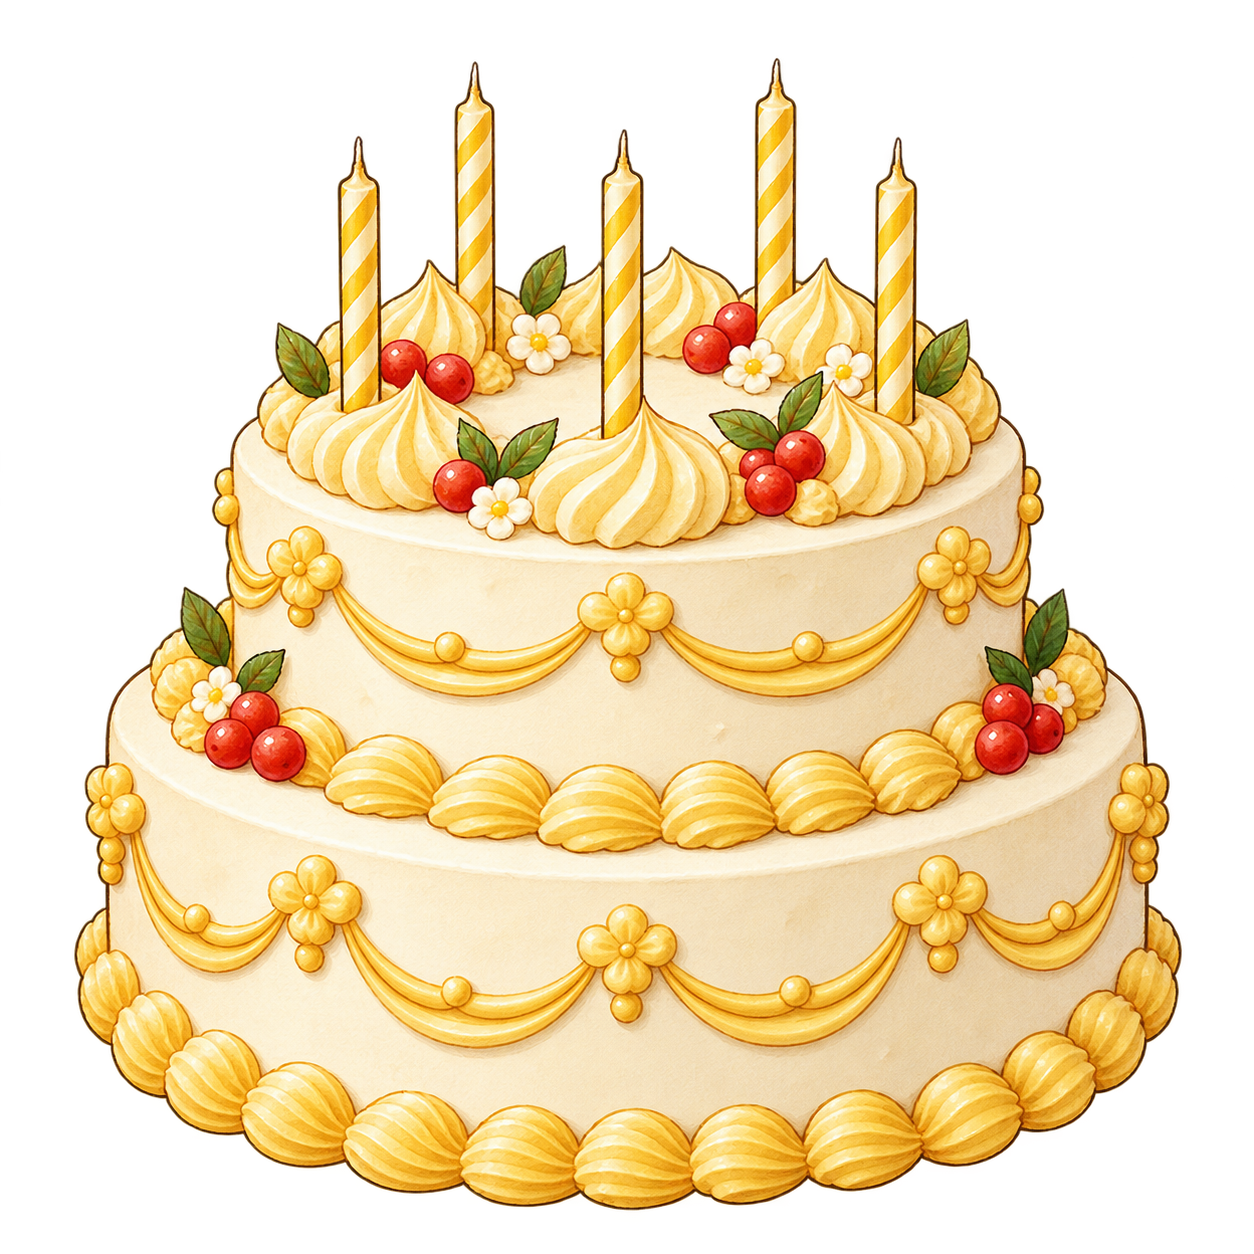
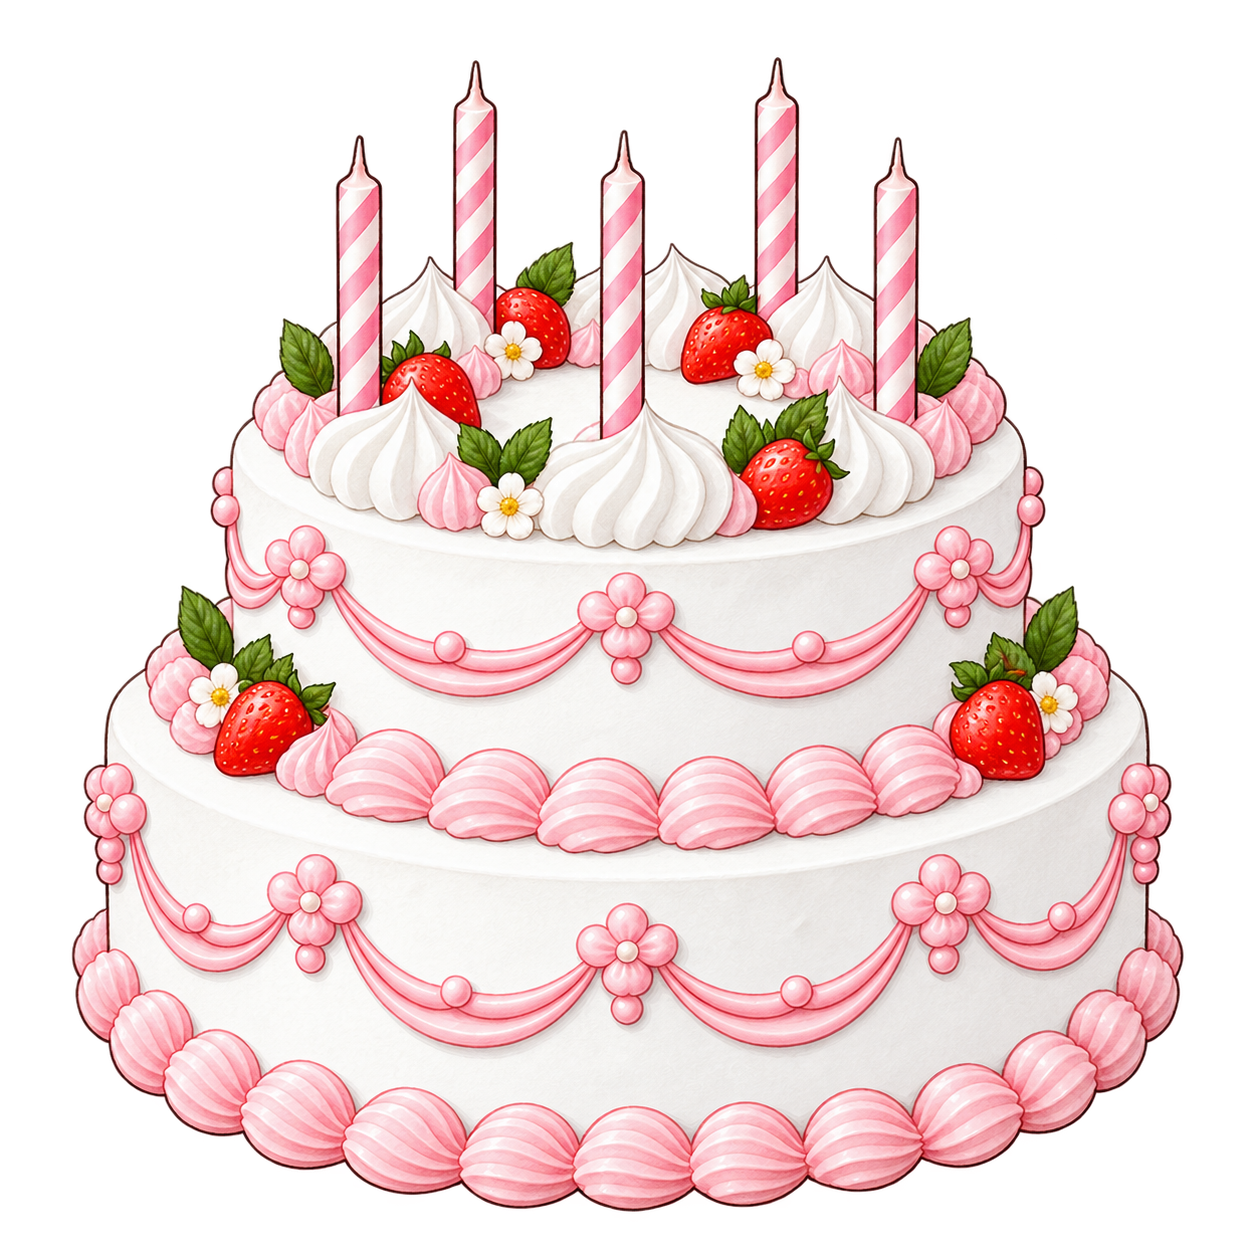
Rebuild birthday card as mobile illustrated scene

diff --git a/index.html b/index.html
@@ -22,6 +22,7 @@
   <link rel="preload" as="image" href="assets/pikachu.png">
   <link rel="preload" as="image" href="assets/jolteon.png">
   <link rel="preload" as="image" href="assets/cake.png">
+  <link rel="preload" as="image" href="assets/room.png">
   <title>선업아 생일축하한당 ㅋㅋ ⚡</title>
   <style>
     :root {
@@ -240,6 +241,40 @@
       *, *::before, *::after { animation-duration: .01ms !important; animation-delay: 0ms !important; transition-duration: .01ms !important; }
       .flame.lit { animation: none; }
     }
+    /* The finished card is composed for a phone screen first. */
+    body { padding: 8px; background: #edb63f; }
+    .poster {
+      display: block;
+      width: min(430px, calc(100vw - 16px), calc(56.28svh - 9px));
+      height: auto;
+      min-height: 0;
+      aspect-ratio: 941 / 1672;
+      border-radius: 21px;
+      border-color: #fff3cc;
+      background: #ffe087 url("assets/room.png") center / 100% 100% no-repeat;
+      box-shadow: 0 22px 65px #5d39173d, 0 2px 9px #5d391723;
+    }
+    .poster::before { inset: 7px; border-radius: 15px; border-color: #fff9db8c; }
+    .headline { position: absolute; top: 21%; left: 0; width: 100%; padding: 0 10px; }
+    .headline h1 { font-size: clamp(34px, 9vw, 46px); line-height: 1.18; letter-spacing: -.075em; text-shadow: 0 2px 3px #fff3c4; }
+    .headline h1 .accent { color: #ad5a11; }
+    .scene { position: absolute; inset: 0; overflow: hidden; }
+    .scene::before, .scene::after { display: none; }
+    .character { width: 39%; bottom: 15%; }
+    .pikachu { left: -2%; }
+    .jolteon { right: -2%; }
+    .character img, .cake-wrap img { filter: drop-shadow(0 8px 6px #65451c30) saturate(.95); }
+    .cake-wrap { width: 42%; left: 50%; top: 44%; bottom: auto; }
+    .footer { position: absolute; inset: auto 0 0; height: 10%; padding: 0; align-items: center; }
+    .signature { font-size: clamp(13px, 3.7vw, 16px); color: #4b2d14; text-shadow: 0 1px 2px #fff8e7; }
+    .replay { right: 13px; bottom: 12px; padding: 7px 9px; font-size: 10px; }
+    .poster.charged .character img { animation: cheer .55s ease-in-out 1; }
+    @keyframes cheer { 0%, 100% { transform: translateY(0) rotate(0); } 50% { transform: translateY(-17px) rotate(-5deg); } }
+    @media (max-width: 360px) {
+      .headline h1 { font-size: 32px; }
+      .character { width: 40%; }
+      .cake-wrap { width: 43%; }
+    }
   </style>
 </head>
 <body>
@@ -272,6 +307,7 @@
       let burstAt = 0;
       let particles = [];
       let dimension = { width: 0, height: 0, dpr: 1 };
+      let electric = { left: [0, 0], right: [0, 0], target: [0, 0] };
       const later = (callback, ms) => timers.push(setTimeout(callback, ms));
       function resize() {
         const rect = scene.getBoundingClientRect();
@@ -304,9 +340,7 @@
         const elapsed = now - burstAt;
         if (elapsed < 1100) {
           const energy = Math.min(1, elapsed / 170) * Math.max(0, 1 - elapsed / 1100);
-          const target = [width * .5, height * .45];
-          const left = [width * .18, height * .43];
-          const right = [width * .82, height * .43];
+          const { target, left, right } = electric;
           [left, right].forEach((start, side) => {
             for (let branch = 0; branch < 2; branch++) {
               const points = [start];
@@ -340,6 +374,15 @@
         const stage = scene.getBoundingClientRect();
         const cx = rect.left - stage.left + rect.width / 2;
         const cy = rect.top - stage.top + rect.height * .31;
+        const pika = scene.querySelector('.pikachu').getBoundingClientRect();
+        const jolteon = scene.querySelector('.jolteon').getBoundingClientRect();
+        electric = {
+          target: [cx, rect.top - stage.top + rect.height * .13],
+          left: [pika.left - stage.left + pika.width * .68, pika.top - stage.top + pika.height * .43],
+          right: [jolteon.left - stage.left + jolteon.width * .25, jolteon.top - stage.top + jolteon.height * .43]
+        };
+        poster.classList.add('charged');
+        later(() => poster.classList.remove('charged'), 700);
         const colors = ['#e99c22', '#f4c545', '#fff8d5', '#d7773c', '#edb5a0'];
         const now = performance.now();
         particles = Array.from({ length: 54 }, (_, i) => {
@@ -360,7 +403,7 @@
         particles = [];
         if (ctx) ctx.clearRect(0, 0, dimension.width, dimension.height);
         flames.forEach(flame => flame.classList.remove('lit'));
-        poster.classList.remove('playing', 'revealed', 'finished');
+        poster.classList.remove('playing', 'charged', 'revealed', 'finished');
         announcement.textContent = '';
         void poster.offsetWidth;
       }
